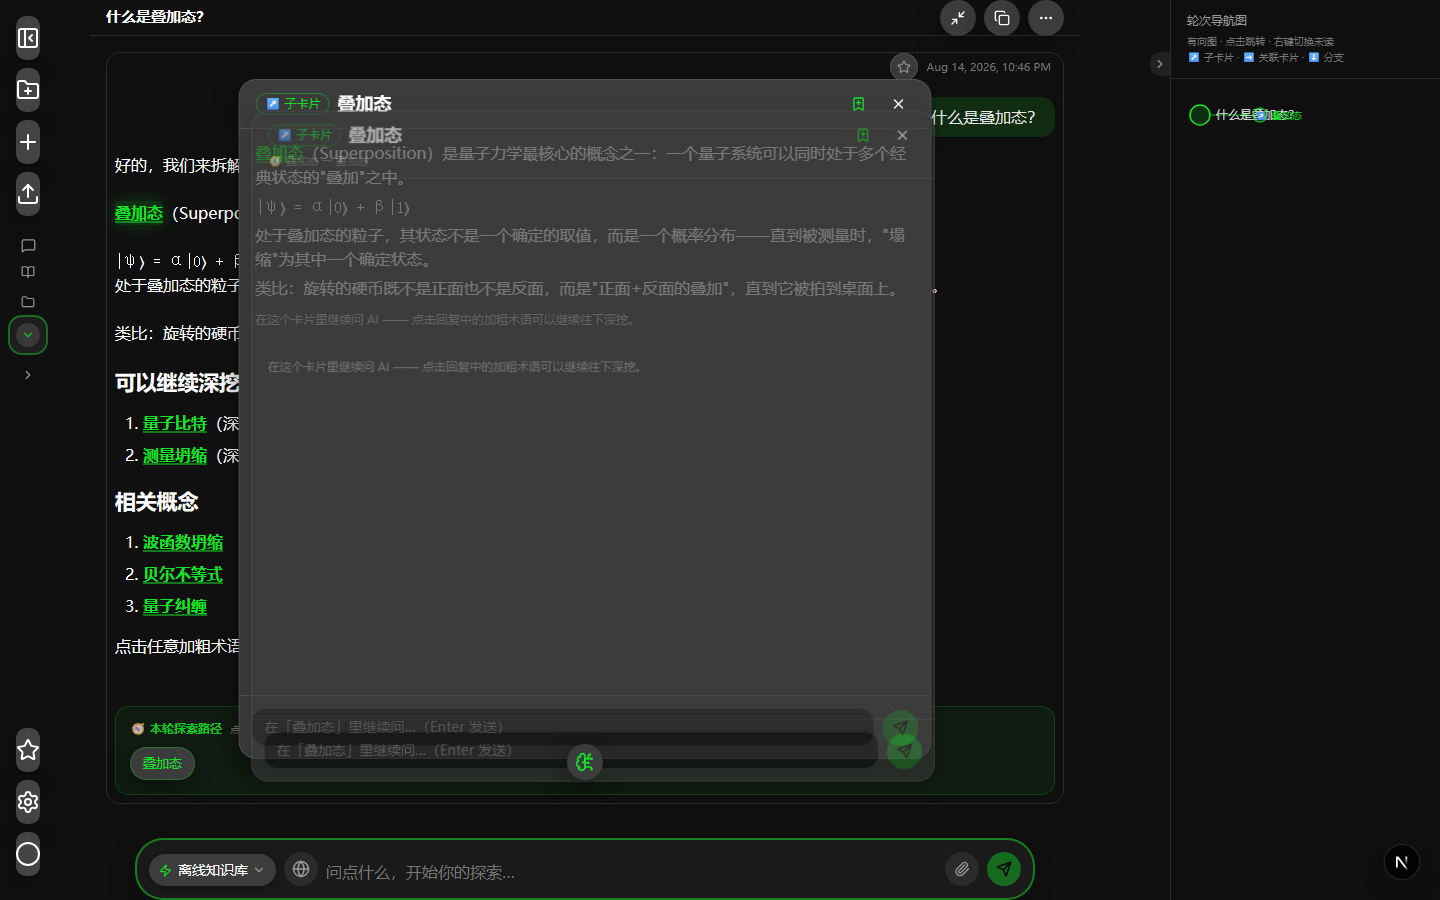
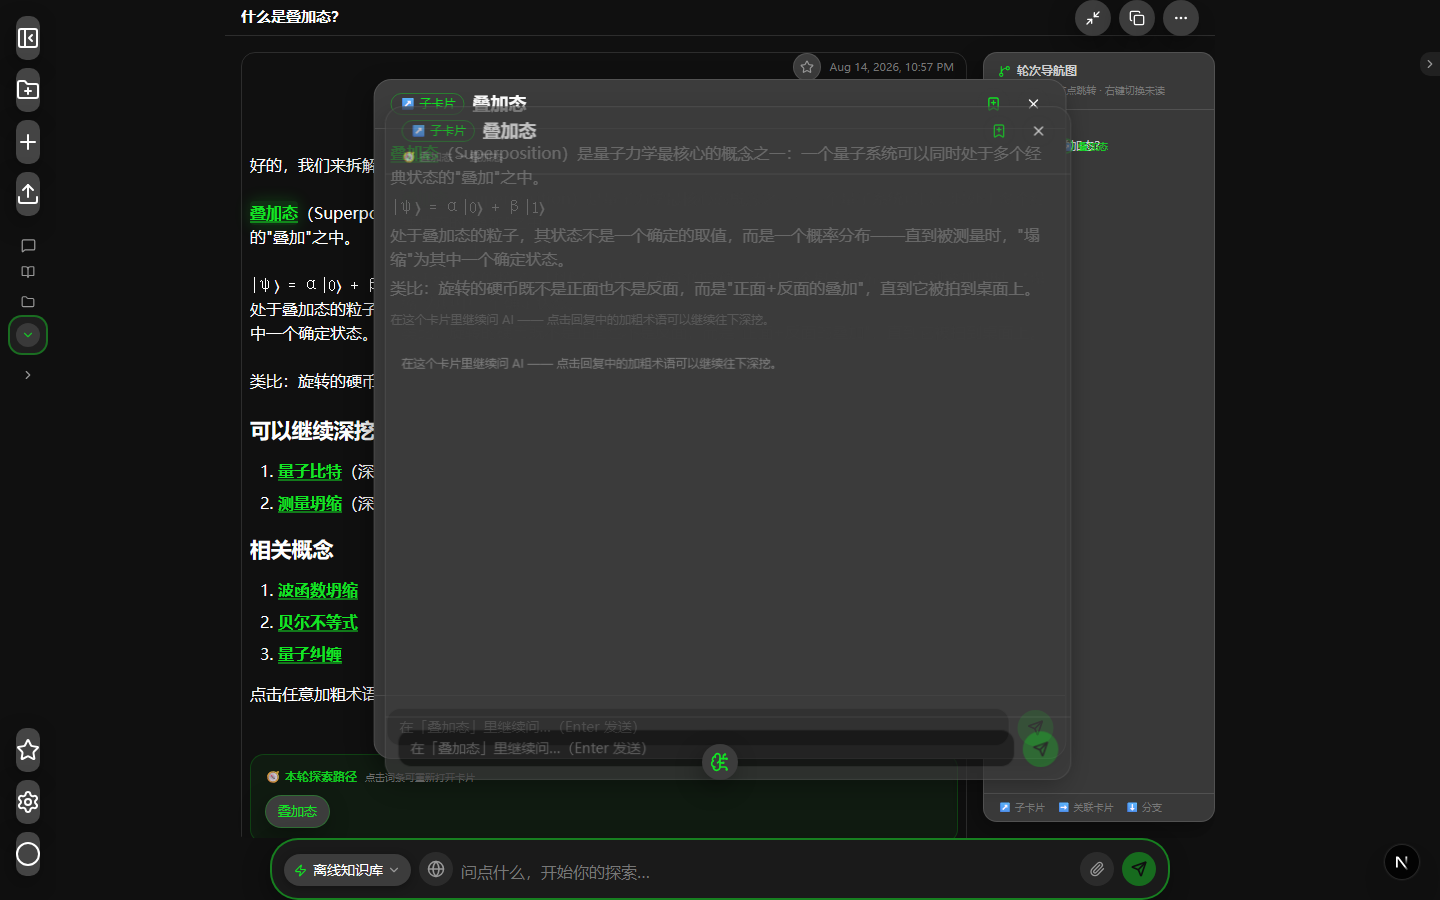
轮次导航图改为卡片树样式停靠在对话框与思维宇宙之间、收藏区去掉空态文案（收藏后才出现列表）

diff --git a/src/components/sites/ai-explore-poker-820d0558/turn-graph.tsx b/src/components/sites/ai-explore-poker-820d0558/turn-graph.tsx
@@ -9,6 +9,7 @@
  *  - 点击轮次节点跳转对话；点击卡片节点重新打开该卡片；右键轮次切换未读。
  */
 import { useMemo } from "react";
+import { GitBranch } from "lucide-react";
 import type { Turn } from "@/types/sites/ai-explore-poker-820d0558";
 import { useApp } from "./app-context";
 
@@ -253,46 +254,49 @@ export function TurnGraph({ turns, onJump, onToggleUnread, onOpenCard }: TurnGra
 /* ------------------------------------------------------------------ */
 
 export function TurnGraphPanel() {
-  const { projects, activeProjectId, activeDocId, focusTurn, setTurnUnread, requestCardOpen } =
-    useApp();
+  const { projects, activeProjectId, focusTurn, setTurnUnread, requestCardOpen } = useApp();
   const activeProject = projects.find((p) => p.id === activeProjectId) ?? null;
   const turns = activeProject?.turns ?? [];
 
   return (
-    <div className="flex h-full w-full flex-col">
-      <div className="px-4 py-3 border-b border-divider shrink-0">
-        <div className="flex items-center gap-2">
-          <span className="text-[12px] font-medium text-text-tertiary">轮次导航图</span>
+    <div className="flex h-full w-full flex-col overflow-hidden">
+      <header className="shrink-0 border-b border-divider px-3.5 py-2.5">
+        <div className="flex items-center gap-1.5">
+          <GitBranch size={13} className="text-brand shrink-0" />
+          <span className="text-xs font-semibold text-text-secondary">轮次导航图</span>
         </div>
-        <span className="mt-1 block text-[10px] leading-4 text-text-quaternary">
-          有向图 · 点击跳转 · 右键切换未读
-          <br />
-          ↗ 子卡片 · ➡ 关联卡片 · ⬇ 分支
-        </span>
+        <p className="mt-1 text-[10px] leading-4 text-text-quaternary">
+          有向图 · 点击节点跳转 · 右键切换未读
+        </p>
+      </header>
+
+      <div className="flex-1 min-h-0">
+        {turns.length === 0 ? (
+          <p className="flex h-full items-center justify-center px-4 text-center text-[11px] leading-5 text-text-quaternary">
+            发起对话后，这里会长出轮次与术语卡片的知识树。
+          </p>
+        ) : (
+          <TurnGraph
+            turns={turns}
+            onJump={(id) => {
+              if (activeProjectId) focusTurn(activeProjectId, id);
+            }}
+            onToggleUnread={(id) => {
+              const t = turns.find((x) => x.id === id);
+              if (t) setTurnUnread(id, !t.unread);
+            }}
+            onOpenCard={(turnId, term) => requestCardOpen(turnId, term)}
+          />
+        )}
       </div>
-      {activeDocId != null ? (
-        <p className="flex-1 flex items-center justify-center px-4 text-center text-[11px] leading-5 text-text-quaternary">
-          文档阅读模式
-          <br />
-          回到对话查看轮次导航图
-        </p>
-      ) : turns.length === 0 ? (
-        <p className="flex-1 flex items-center justify-center px-4 text-center text-[11px] leading-5 text-text-quaternary">
-          发起对话后，这里会展示轮次与术语卡片的有向图。
-        </p>
-      ) : (
-        <TurnGraph
-          turns={turns}
-          onJump={(id) => {
-            if (activeProjectId) focusTurn(activeProjectId, id);
-          }}
-          onToggleUnread={(id) => {
-            const t = turns.find((x) => x.id === id);
-            if (t) setTurnUnread(id, !t.unread);
-          }}
-          onOpenCard={(turnId, term) => requestCardOpen(turnId, term)}
-        />
-      )}
+
+      <footer className="shrink-0 border-t border-divider px-3.5 py-1.5">
+        <div className="flex items-center gap-3 text-[10px] text-text-quaternary">
+          <span>↗ 子卡片</span>
+          <span>➡ 关联卡片</span>
+          <span>⬇ 分支</span>
+        </div>
+      </footer>
     </div>
   );
 }

diff --git a/src/components/sites/ai-explore-poker-820d0558/sidebar.tsx b/src/components/sites/ai-explore-poker-820d0558/sidebar.tsx
@@ -536,13 +536,11 @@ export function Sidebar() {
                 收藏
               </span>
             )}
-            {!collapsed && (
+            {!collapsed && favTurns.length > 0 && (
               <span className="flex items-center gap-1.5">
-                {favTurns.length > 0 && (
-                  <span className="rounded-full bg-brand/15 px-1.5 text-[10px] leading-4 text-brand">
-                    {favTurns.length}
-                  </span>
-                )}
+                <span className="rounded-full bg-brand/15 px-1.5 text-[10px] leading-4 text-brand">
+                  {favTurns.length}
+                </span>
                 <ChevronRight
                   size={14}
                   className={`mr-2 text-text-tertiary transition-transform duration-200 ${
@@ -552,14 +550,9 @@ export function Sidebar() {
               </span>
             )}
           </button>
-          {favOpen && !collapsed && (
+          {favOpen && !collapsed && favTurns.length > 0 && (
             <div className="mt-1 max-h-[168px] overflow-y-auto scrollbar-card-std space-y-0.5 pl-2 pr-1">
-              {favTurns.length === 0 ? (
-                <p className="px-2 py-1 text-[11px] leading-5 text-text-quaternary">
-                  在轮次右上角点 ⭐ 收藏，这里会列出可快速跳转的对话，还能生成智能摘要。
-                </p>
-              ) : (
-                favTurns.map(({ project, turn }) => (
+              {favTurns.map(({ project, turn }) => (
                   <div key={turn.id}>
                     <div
                       role="button"
@@ -619,7 +612,7 @@ export function Sidebar() {
                     )}
                   </div>
                 ))
-              )}
+              }
             </div>
           )}
         </div>

diff --git a/src/components/sites/ai-explore-poker-820d0558/chat-card.tsx b/src/components/sites/ai-explore-poker-820d0558/chat-card.tsx
@@ -21,7 +21,7 @@ import {
   X,
 } from "lucide-react";
 import { useApp, streamOpenAICompatible } from "./app-context";
-import { explorationChains, type ExploreEntry } from "./turn-graph";
+import { explorationChains, TurnGraphPanel, type ExploreEntry } from "./turn-graph";
 import { findTerm, generateReply, GLOSSARY } from "@/lib/sites/ai-explore-poker-820d0558/mock";
 import type { Message, TermNode } from "@/types/sites/ai-explore-poker-820d0558";
 
@@ -783,7 +783,9 @@ export function ChatCard() {
             {/* ---------- scrollable turn list ---------- */}
             <div
               ref={scrollRef}
-              className="absolute inset-0 overflow-y-auto scrollbar-card-std pt-[52px] px-4 pb-6"
+              className={`absolute inset-0 overflow-y-auto scrollbar-card-std pt-[52px] pl-4 pb-6 pr-4 ${
+                turns.length > 0 ? "lg:pr-[248px]" : ""
+              }`}
             >
               {turns.length === 0 ? (
                 <div className="flex h-full flex-col items-center justify-center gap-12 -translate-y-[30px]">
@@ -1005,8 +1007,12 @@ export function ChatCard() {
               </>
             )}
 
-            {/* ---------- right turn-graph navigation rail ---------- */}
-            {/* 轮次导航图已移到 shell 右侧常驻面板（TurnGraphPanel） */}
+            {/* ---------- 轮次导航图（卡片树样式，停靠在思维宇宙与对话框之间） ---------- */}
+            {!minimized && turns.length > 0 && (
+              <div className="hidden lg:flex absolute right-0 top-[52px] bottom-4 w-[232px] z-[14] rounded-xl border border-std bg-card-floating/95 shadow-card overflow-hidden">
+                <TurnGraphPanel />
+              </div>
+            )}
           </>
         )}
       </div>

diff --git a/src/components/sites/ai-explore-poker-820d0558/shell.tsx b/src/components/sites/ai-explore-poker-820d0558/shell.tsx
@@ -17,7 +17,6 @@ import { useApp } from "./app-context";
 import { Sidebar } from "./sidebar";
 import { ChatCard } from "./chat-card";
 import { WelcomeView } from "./welcome-view";
-import { TurnGraphPanel } from "./turn-graph";
 import { InputArea } from "./input-area";
 import { MindscapePanel } from "./mindscape-panel";
 import { DocLibrary, DocReader } from "./doc-reader";
@@ -156,11 +155,6 @@ export function AppShell() {
           沪ICP备2025147118号 · 沪公网安备31010102008430号
         </div>
       </main>
-
-      {/* ---- Desktop: always-visible turn-graph panel (轮次导航有向图，右侧常驻) ---- */}
-      <aside className="hidden lg:flex w-[270px] shrink-0 border-l border-divider bg-bg/70 backdrop-blur-sm relative z-10">
-        <TurnGraphPanel />
-      </aside>
 
       {/* ---- Fullscreen 3D mind universe (covers everything) ---- */}
       {universeOpen && <MindUniverse onClose={() => setUniverseOpen(false)} />}
